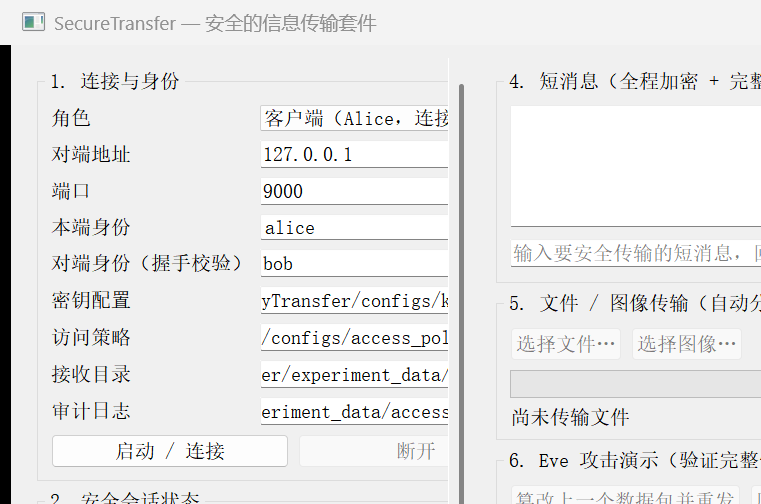
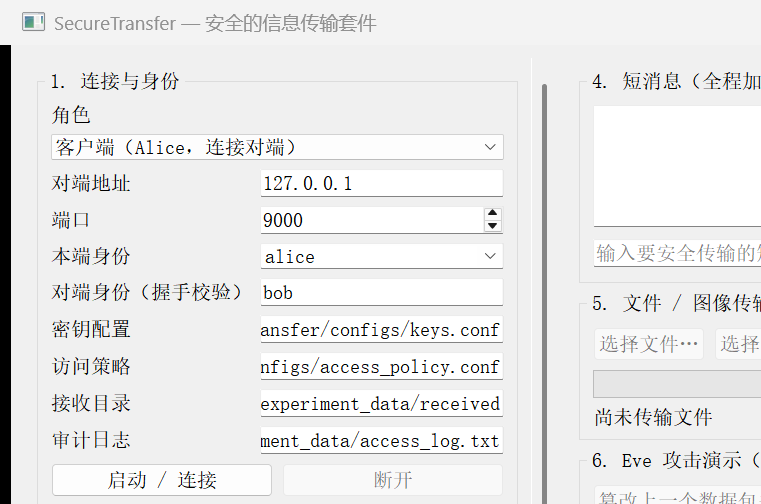
fix: 修复左列内容被静默裁切（界面最左侧文字显示不全）
上一版把左列放进 QScrollArea 时，把横向滚动条设成了 AlwaysOff，而左列内容的
最小宽度是 538px、滚动区可视宽度只有 424px（最小窗口 347px），多出来的部分
被静默裁掉——表现就是"界面最左那一栏的文字显示不全"。

修法：
* QFormLayout::WrapLongRows：长标签（"对端身份（握手校验）"）独占一行，
  左列最小宽度 538px -> 338px；
* 横向滚动条改回 AsNeeded：宁可出现滚动条，也不静默裁切内容；
* 左列最大宽度 450px -> 560px。

另外给 --print-geometry 增补诊断信息：打印左列滚动区的 viewport/innerWidget
宽度与滚动位置、所有 QLabel/QGroupBox 的宽度与 sizeHint（宽度小于 sizeHint
就说明文字被裁），便于以后自查类似问题。

验证：Windows 0 错误 0 警告、ctest 16/16；Linux（Qt 5.12）回归 0 错误 0 警告、
ctest 16/16、演示与 4 个文件逐字节一致；--print-geometry 实测
innerWidget 宽度 == viewport 宽度（507/507、347/347、411/411），不再有裁切。

文档：docs/ui.md §11.1 补充本次修复的原因与验证方法，Part2_transfer.md 新增 §26.5。

diff --git a/apps/ui/main_window.cpp b/apps/ui/main_window.cpp
@@ -20,6 +20,7 @@
 #include <QProgressBar>
 #include <QPushButton>
 #include <QScrollArea>
+#include <QScrollBar>
 #include <QSpinBox>
 #include <QSizePolicy>
 #include <QSplitter>
@@ -78,6 +79,9 @@ void MainWindow::buildUi() {
 
     auto* connBox = new QGroupBox("1. 连接与身份");
     auto* connForm = new QFormLayout(connBox);
+    // 长标签（例如"对端身份（握手校验）"）单独占一行，而不是把整个标签列撑到 200px，
+    // 否则左列的"最小宽度"会远超滚动区可视宽度，右侧内容会被裁掉。
+    connForm->setRowWrapPolicy(QFormLayout::WrapLongRows);
     roleBox_ = new QComboBox();
     roleBox_->addItems({"客户端（Alice，连接对端）", "服务端（Bob，等待连接）"});
     connForm->addRow("角色", roleBox_);
@@ -216,15 +220,16 @@ void MainWindow::buildUi() {
     auto* leftWidget = new QWidget();
     leftWidget->setLayout(leftColumn);
     // 左列放进滚动区：屏幕/窗口不够高时出现滚动条，而不是把控件压扁
-    auto* leftScroll = new QScrollArea();
-    leftScroll->setWidget(leftWidget);
-    leftScroll->setWidgetResizable(true);
-    leftScroll->setFrameShape(QFrame::NoFrame);
-    leftScroll->setHorizontalScrollBarPolicy(Qt::ScrollBarAlwaysOff);
-    leftScroll->setMaximumWidth(450);
+    leftScroll_ = new QScrollArea();
+    leftScroll_->setWidget(leftWidget);
+    leftScroll_->setWidgetResizable(true);
+    leftScroll_->setFrameShape(QFrame::NoFrame);
+    // 内容比可视区宽时**必须**能滚动，否则文字会被静默裁掉（之前就是这个问题）。
+    leftScroll_->setHorizontalScrollBarPolicy(Qt::ScrollBarAsNeeded);
+    leftScroll_->setMaximumWidth(560);
     auto* rightWidget = new QWidget();
     rightWidget->setLayout(rightColumn);
-    mainLayout->addWidget(leftScroll);
+    mainLayout->addWidget(leftScroll_);
     mainLayout->addWidget(rightWidget, 1);
     setCentralWidget(central);
 
@@ -504,6 +509,33 @@ void MainWindow::printGeometry() const {
     dump("replayButton", replayButton_);
     dump("historyEdit", historyEdit_);
     dump("logEdit", logEdit_);
+
+    // 左列是滚动区：如果 viewport 比内容窄，内容就会被裁掉（表现就是"左边几列文字看不到"）
+    if (leftScroll_ != nullptr) {
+        const QWidget* inner = leftScroll_->widget();
+        std::printf("leftScroll     viewport=%d x %d  innerWidget=%d x %d  "
+                    "hScroll=%d vScroll=%d  innerMinWidth=%d\n",
+                    leftScroll_->viewport()->width(), leftScroll_->viewport()->height(),
+                    inner != nullptr ? inner->width() : -1, inner != nullptr ? inner->height() : -1,
+                    leftScroll_->horizontalScrollBar()->value(),
+                    leftScroll_->verticalScrollBar()->value(),
+                    inner != nullptr ? inner->minimumSizeHint().width() : -1);
+    }
+
+    // 所有标签/分组框：宽度小于 sizeHint 就说明文字被裁（省略号或直接消失）
+    for (const QLabel* label : findChildren<QLabel*>()) {
+        if (label->isVisible() && !label->text().isEmpty()) {
+            std::printf("label  %-26s w=%4d  sizeHintW=%4d  text=%s\n",
+                        "QLabel", label->width(), label->sizeHint().width(),
+                        label->text().left(24).toUtf8().constData());
+        }
+    }
+    for (const QGroupBox* box : findChildren<QGroupBox*>()) {
+        if (box->isVisible()) {
+            std::printf("group  w=%4d  x=%4d  sizeHintW=%4d  %s\n", box->width(), box->x(),
+                        box->sizeHint().width(), box->title().toUtf8().constData());
+        }
+    }
     std::fflush(stdout);
 }
 

diff --git a/apps/ui/main_window.h b/apps/ui/main_window.h
@@ -19,6 +19,7 @@ class QLineEdit;
 class QPlainTextEdit;
 class QProgressBar;
 class QPushButton;
+class QScrollArea;
 class QSpinBox;
 class QTextEdit;
 
@@ -119,6 +120,7 @@ private:
     QPushButton* replayButton_ = nullptr;
 
     QPlainTextEdit* logEdit_ = nullptr;
+    QScrollArea* leftScroll_ = nullptr;  ///< 左列的滚动区（小窗口时可滚动，不挤压控件）
     QString lastSendDirectory_;
     QVector<QPair<QString, QString>> pendingActions_;
     bool handshakeDone_ = false;

diff --git a/Part2_transfer.md b/Part2_transfer.md
@@ -2693,3 +2693,21 @@ Linux（Ubuntu 20.04 / g++ 9.4）：0 错误 0 警告，ctest 16/16，Alice/Bob 
    把中文文件名放进传输元数据（TLV 里本来就是 UTF-8 字节）——三处都验证过。
 3. 界面布局的"根因"是小屏幕上窗口被压缩，因此**最小尺寸**是这次修复的关键；
    如果将来要在更小的屏幕上用，可以再调小 `setMinimumSize()`，或者把右列也改成可滚动。
+
+## 26.5 补充修复：左列内容被静默裁切（同日）
+
+用户在实机反馈"文字框正常，但最左侧那一栏的文字显示不出来"。用 `--print-geometry`
+一测就清楚了：
+
+```text
+leftScroll  viewport=424 x 674   innerWidget=538 x 735   hScroll=0   innerMinWidth=538
+```
+
+左列内容的**最小宽度 538 px > 滚动区可视宽度 424 px**（最小窗口时只有 347 px），
+而我上一版把横向滚动条设成了 `ScrollBarAlwaysOff` → 多出来的部分被**静默裁掉**。
+
+修法：① `QFormLayout::WrapLongRows` 让长标签换行，左列最小宽度 538 → 338 px；
+② 横向滚动条改回 `AsNeeded`（宁可滚动，也不静默裁切）；③ 左列最大宽度 450 → 560 px。
+
+修复后实测：`innerWidget` 宽度 **等于** `viewport` 宽度（507/507、347/347、411/411），
+左列不再有内容被裁；Windows 与 Linux 回归均为 0 错误 0 警告、`ctest` 16/16。

diff --git a/docs/ui.md b/docs/ui.md
@@ -223,6 +223,20 @@ bash scripts/ui_demo.sh          # 需要虚拟机桌面会话（DISPLAY=:0）
 那是有意为之）。截图见 `docs/screenshots/windows_ui_layout_default.png` 与
 `windows_ui_layout_min.png`。
 
+**同日补充修复（左列文字被裁）**：把左列放进滚动区时，横向滚动条被设成了"始终关闭"，
+而左列内容的**最小宽度是 538 px、滚动区可视宽度只有 424 px（最小窗口时 347 px）**，
+多出来的部分被**静默裁掉**——表现就是"界面最左那一栏的文字显示不全/看不到"。
+
+修法：
+
+1. 长标签（"对端身份（握手校验）"）改用 `QFormLayout::WrapLongRows` 独占一行，
+   左列最小宽度从 **538 px 降到 338 px**；
+2. 横向滚动条改回 `AsNeeded`——宁可出现滚动条，也不静默裁切内容；
+3. 左列最大宽度放宽到 560 px。
+
+验证（`--print-geometry` 新增打印 `leftScroll`）：**innerWidget 宽度 == viewport 宽度**
+（默认 507/507、最小窗口 347/347、窗口 1024 宽时 411/411），即左列不再有任何内容被裁。
+
 ### 11.2 只能传英文路径，中文路径的文件发不出去
 
 **根因**：Windows 上 `std::ifstream` / `std::ofstream` / `::_mkdir` 的窄字符接口
